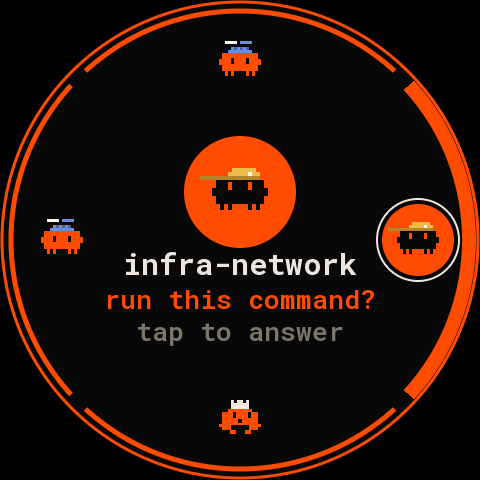
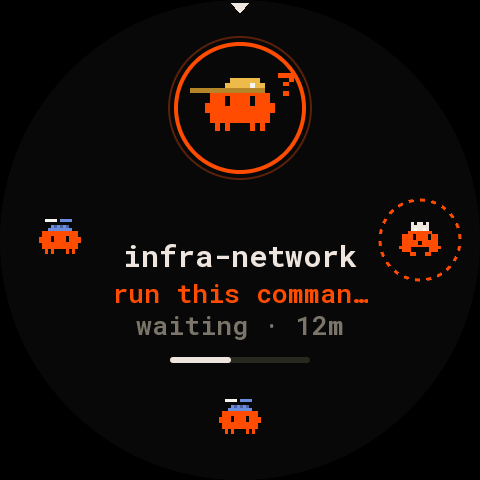
Round boards: docs for the spring on the 2.1″ and the 2.8″
The READMEs describe the spring home and its gestures, the host
renderer draws both boards' docs with it (plus a strip of one step
turning), and the 2.1″ lists the idf5-bench env.

Claude-Session: https://claude.ai/code/session_01Qi6CVTpwKe76G62P4KuUZF

diff --git a/firmware/devices/waveshare-touch-lcd-21/README.md b/firmware/devices/waveshare-touch-lcd-21/README.md
@@ -1,7 +1,7 @@
-# waveshare-touch-lcd-21: Dial, the deck on a round 2.1″ screen
+# waveshare-touch-lcd-21: the deck on a round 2.1″ screen
 
 Firmware for the [Waveshare ESP32-S3-Touch-LCD-2.1](https://www.waveshare.com/wiki/ESP32-S3-Touch-LCD-2.1):
-one agent at a time, the whole fleet as dots round it. It plugs into the Mac over USB and
+the agents on a spring, one turn of seven round the selected one. It plugs into the Mac over USB and
 talks to the deck through [Deck Link](../../../docs/link/protocol.md).
 
 ![screens](docs/screens.png)
@@ -18,18 +18,24 @@ talks to the deck through [Deck Link](../../../docs/link/protocol.md).
 
 ## What the screen shows
 
-- **Home, the dial**: the orbit, reduced. One agent fills the face with its critter, name, status
-  and age, and what it is doing. Every agent is a dot on an inner ring:
-  - orange: working, hungry or failed;
-  - a bigger orange dot: waiting;
-  - grey: idle.
+- **Home, the spring.** The agents sit on a spring, in deck slot order, and the screen shows one
+  turn of it: the selected agent large at 12 o'clock under a small pointer, the next 6 clockwise
+  round the ring (×4; the selected one ×6). The middle is the selected agent: its name, a
+  phrase ("one moment…" while it thinks, "on it…" while it works, its question when it waits, "done ·
+  your turn" when it finished and you haven't looked, "resting", "hit an error"), its state and age,
+  and its context bar. Turning the ring one step brings the next agent up from under the pointer and
+  sends the last one on the turn down under it; after the last agent comes the first again.
+  - A waiting agent has a solid orange ring round it; a finished one you haven't seen, a dashed one.
+    Working critters move; idle ones are grey.
+  - Up to 7 agents the ring is a closed loop, spread evenly, and nothing goes under the pointer.
+  - More than 7: a short row of dots at 6 o'clock, one per agent. The ones on screen are white,
+    the selected one larger, waiting ones orange.
+  - Someone waits where you can't see them: an orange arc on the rim points to the side to pull up.
+    Leave the board alone for 10 s and the ring turns to them by itself. It never opens the prompt
+    by itself, so a stray touch can't answer.
 
-  The shown agent's dot is circled, with "‹ 2 / 8 ›" under the face. The outer ring is the shown
-  agent's context use. The dial starts on the agent that matters most: the one waiting longest, then
-  hungry, then failed, then the busiest.
-- **Someone waits.** The dial jumps to it and the whole face turns orange, like the deck's
-  needs-you tile, with its question and "tap to answer". It never opens the prompt by itself, so a
-  stray touch can't answer.
+  The screen starts on the agent that matters most: the one waiting longest, then hungry, then
+  failed, then the busiest.
 - **Detail.** The context bar runs over the top (three fifths of the circle, leaving room for the
   buttons), with the fleet's dots inside it. Below it: the critter, the name, status and age, and
   what the agent is doing. Round buttons on the bottom
@@ -46,20 +52,25 @@ talks to the deck through [Deck Link](../../../docs/link/protocol.md).
 |---|---|---|---|---|---|
 | ![](docs/home-3.png) | ![](docs/home-8.png) | ![](docs/home-22.png) | ![](docs/detail.png) | ![](docs/prompt.png) | ![](docs/not-approved.png) |
 
+One step clockwise, 300 ms (frames 0, 2, 4, 7 and 9 of 9):
+
+![turning](docs/turning.png)
+
 ## Gestures
 
 | where | gesture | does |
 |---|---|---|
-| home | slide a finger round the outer ring | the agent under the finger, live; it stays when you let go |
-| home | swipe left / right | the next / previous agent |
-| home | tap the middle | the shown agent's prompt when it waits, else its detail |
+| home | drag a finger round the ring | the ring follows it, one agent per 51°, and settles on the nearest when you let go; flick it and it keeps turning (at most one turn) |
+| home | swipe left / right across the middle | the next / previous agent |
+| home | tap an agent on the ring | turns it to the top, the short way |
+| home | tap the selected agent or the middle | its prompt when it waits, else its detail |
 | detail | swipe left / right | the next / previous agent in slot order |
 | detail | tap the middle (when it waits) | its prompt |
 | detail | tap focus / interrupt; hold stop 1 s | sends Focus / Interrupt / Dismiss |
 | prompt | tap a pill | answers; swipe up / down scrolls a long list |
 | detail, prompt | swipe down, or tap "×" (the detail's bottom row, the prompt's top) | back |
 | detail | tap the big critter | home |
-| anywhere | 30 s untouched, or the BOOT button | home, on the agent that matters most |
+| anywhere | 30 s untouched, or the BOOT button | home |
 
 ## Scope
 
@@ -82,6 +93,7 @@ You need [PlatformIO](https://platformio.org/). From the repository's root:
 | `idf5` | the firmware on arduino-esp32 3.x with an RGB bounce buffer: the fallback if the picture drifts | `pio run -d firmware/devices/waveshare-touch-lcd-21/idf5 -e idf5 -t upload` |
 | `idf5-debug` | `idf5` with the debug lines | `pio run -d firmware/devices/waveshare-touch-lcd-21/idf5 -e idf5-debug -t upload` |
 | `idf5-selftest` | the self-test on that platform | `pio run -d firmware/devices/waveshare-touch-lcd-21/idf5 -e idf5-selftest -t upload` |
+| `idf5-bench` | without Deck Link: a made-up fleet on the spring, turned by itself, with the frame times on the USB port (`pio device monitor`) | `pio run -d firmware/devices/waveshare-touch-lcd-21/idf5 -e idf5-bench -t upload` |
 
 The `idf5` project keeps its platform in `~/.platformio-pioarduino`. pioarduino and PlatformIO's own
 ESP32 platform clash in one PlatformIO home. Its first build downloads about 1 GB.
@@ -172,8 +184,9 @@ The panel's init sequence is Waveshare's, byte for byte (`src/main.cpp`).
 
 ## Tests and the host renderer
 
-- The layout is `panel-core/src/layout_dial.h`.
-- The detail, prompt and notices it shares with the 2.8″ Orbit are in `round_ui.h`.
+- The home is `panel-core/src/layout_spring.h` (`layoutSpring21()`), its geometry and motion
+  `spring.h`. Build with `-DROUND_DIAL_CLASSIC` for the earlier Dial home (`layout_dial.h`).
+- The detail, prompt and notices it shares with the 2.8″ are in `round_ui.h`.
 - The state machine is in `round_view.h`.
 - `sim/round_sim.cpp` runs it all against a deck over stdin and stdout; the Go test
   `backend/internal/link/round_test.go` does that with the real deck code.

diff --git a/firmware/devices/waveshare-touch-lcd-28c/README.md b/firmware/devices/waveshare-touch-lcd-28c/README.md
@@ -1,7 +1,7 @@
-# waveshare-touch-lcd-28c: Orbit, the deck on a round 2.8″ screen
+# waveshare-touch-lcd-28c: the deck on a round 2.8″ screen
 
 Firmware for the [Waveshare ESP32-S3-Touch-LCD-2.8C](https://www.waveshare.com/wiki/ESP32-S3-Touch-LCD-2.8C):
-the whole fleet on a ring, the agent that matters in the middle. It plugs into the Mac over USB and
+the agents on a spring, one turn of nine round the selected one. It plugs into the Mac over USB and
 talks to the deck through [Deck Link](../../../docs/link/protocol.md).
 
 ![screens](docs/screens.png)
@@ -18,16 +18,24 @@ talks to the deck through [Deck Link](../../../docs/link/protocol.md).
 
 ## What the screen shows
 
-- **Home, the orbit.** Every agent is a critter on a ring near the edge, in deck slot order. Under
-  each one, the rim shows its status: a thin orange arc while it works, is hungry or has failed; a
-  thick orange bar when it needs you; grey when idle. The middle holds the agent that matters most:
-  the one waiting longest, then hungry, then failed, then the busiest. It is circled on the ring
-  too.
-- **Someone waits.** The rim gets an orange halo, the waiter sits on an orange disc, and the middle
-  shows its question with "tap to answer". A newly waiting agent wakes the screen to home with it in
-  the middle. It never opens the prompt by itself, so a stray touch can't answer.
-- **More than 16 agents.** The ring shows 15 and a "+N" chip. Drag round the rim, or tap the chip,
-  to page.
+- **Home, the spring.** The agents sit on a spring, in deck slot order, and the screen shows one
+  turn of it: the selected agent large at 12 o'clock under a small pointer, the next 8 clockwise
+  round the ring (×3; the selected one ×5). The middle is the selected agent: its name, a
+  phrase ("one moment…" while it thinks, "on it…" while it works, its question when it waits, "done ·
+  your turn" when it finished and you haven't looked, "resting", "hit an error"), its state and age,
+  and its context bar. Turning the ring one step brings the next agent up from under the pointer and
+  sends the last one on the turn down under it; after the last agent comes the first again.
+  - A waiting agent has a solid orange ring round it; a finished one you haven't seen, a dashed one.
+    Working critters move; idle ones are grey.
+  - Up to 9 agents the ring is a closed loop, spread evenly, and nothing goes under the pointer.
+  - More than 9: a short row of dots at 6 o'clock, one per agent. The ones on screen are white,
+    the selected one larger, waiting ones orange.
+  - Someone waits where you can't see them: an orange arc on the rim points to the side to pull up.
+    Leave the board alone for 10 s and the ring turns to them by itself. It never opens the prompt
+    by itself, so a stray touch can't answer.
+
+  The screen starts on the agent that matters most: the one waiting longest, then hungry, then
+  failed, then the busiest.
 - **Detail.** The context bar runs over the top, from 8 to 4 o'clock. Below it: the critter, the
   name, status and age, model and effort, and what the agent is doing. Round buttons on the bottom
   arc: focus (brings its terminal to the front), interrupt (only while it runs), and stop (orange:
@@ -39,17 +47,22 @@ talks to the deck through [Deck Link](../../../docs/link/protocol.md).
   (with when it was last heard); no agents.
 - **Backlight**: dims after 2 minutes with nothing going on.
 
-| home, 3 agents | 8, two waiting | 22, paged | detail | prompt | waiting for approval |
+| home, 3 agents | 8, two waiting | 22 | detail | prompt | waiting for approval |
 |---|---|---|---|---|---|
 | ![](docs/home-3.png) | ![](docs/home-8.png) | ![](docs/home-22.png) | ![](docs/detail.png) | ![](docs/prompt.png) | ![](docs/not-approved.png) |
+
+One step clockwise, 300 ms (frames 0, 2, 4, 7 and 9 of 9):
+
+![turning](docs/turning.png)
 
 ## Gestures
 
 | where | gesture | does |
 |---|---|---|
-| home | tap a critter | its detail |
-| home | tap the middle | the featured agent's prompt when it waits, else its detail |
-| home | drag round the rim, or tap "+N" | the next page of the ring (more than 16 agents) |
+| home | drag a finger round the ring | the ring follows it, one agent per 40°, and settles on the nearest when you let go; flick it and it keeps turning (at most one turn) |
+| home | swipe left / right across the middle | the next / previous agent |
+| home | tap an agent on the ring | turns it to the top, the short way |
+| home | tap the selected agent or the middle | its prompt when it waits, else its detail |
 | detail | swipe left / right | the next / previous agent in slot order |
 | detail | tap the middle (when it waits) | its prompt |
 | detail | tap focus / interrupt; hold stop 1 s | sends Focus / Interrupt / Dismiss |
@@ -170,7 +183,8 @@ The panel's init sequence is Waveshare's, byte for byte (`src/main.cpp`).
 
 ## Tests and the host renderer
 
-- The layout is `panel-core/src/layout_orbit.h`.
+- The home is `panel-core/src/layout_spring.h` (`layoutSpring28()`), its geometry and motion
+  `spring.h`. Build with `-DROUND_ORBIT_CLASSIC` for the earlier Orbit home (`layout_orbit.h`).
 - The detail, prompt and notices it shares with the 2.1″ Dial are in `round_ui.h`.
 - The state machine is in `round_view.h`.
 - `sim/round_sim.cpp` runs it all against a deck over stdin and stdout; the Go test

diff --git a/firmware/panel-core/README.md b/firmware/panel-core/README.md
@@ -32,7 +32,8 @@ under [`../devices`](../devices) holds only its board's drivers (display, touch,
 | `src/round_geom.h` | circle geometry: polar placement, arcs, discs, pills, the round mask, hit tests, the rim drag |
 | `src/round_view.h` | the round boards' screens and touch: home, detail, prompt, featured agent, timeout (`RoundLayout`) |
 | `src/round_ui.h`, `src/font_round.h` | what Orbit and Dial share: notices, the detail, the prompt; 30 and 35 px fonts (`tools/make_font_round.py`) |
-| `src/layout_orbit.h`, `src/layout_dial.h` | the round layouts (`OrbitPanel`, `DialPanel`) |
+| `src/layout_spring.h`, `src/spring.h` | the round boards' home, the spring carousel (`SpringPanel`; `layoutSpring21()`, `layoutSpring28()`), drawn in strips |
+| `src/layout_orbit.h`, `src/layout_dial.h` | the earlier round homes (`OrbitPanel`, `DialPanel`), behind `ROUND_ORBIT_CLASSIC` / `ROUND_DIAL_CLASSIC` |
 | `src/round_app.h` | the firmware of a round board minus its drivers (Arduino) |
 | `sim/` | `render.cpp` (every screen of a layout to PPM), `panel_sim.cpp`, `fixture.h` (host only) |
 | `tests/run.sh` | the host tests, with ASan and UBSan |
